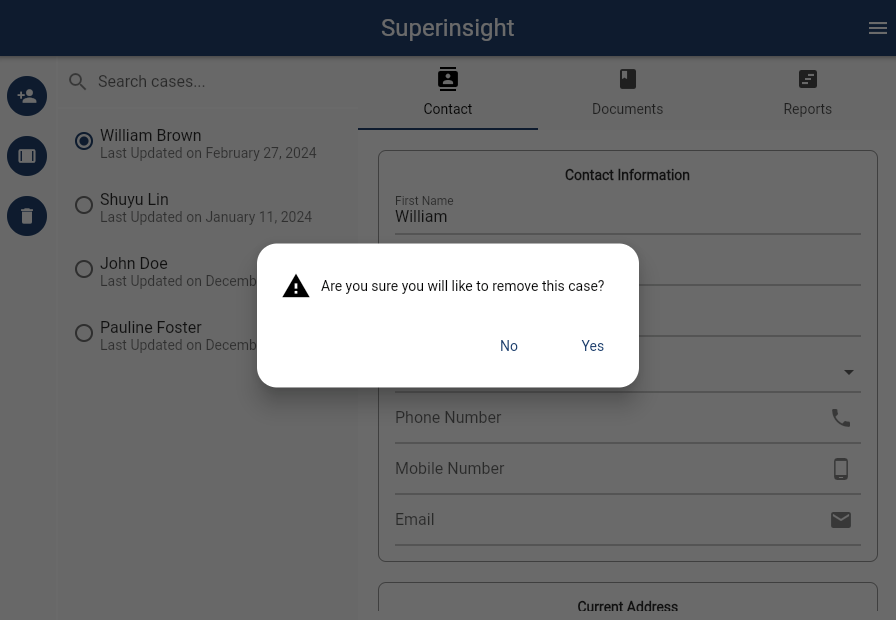
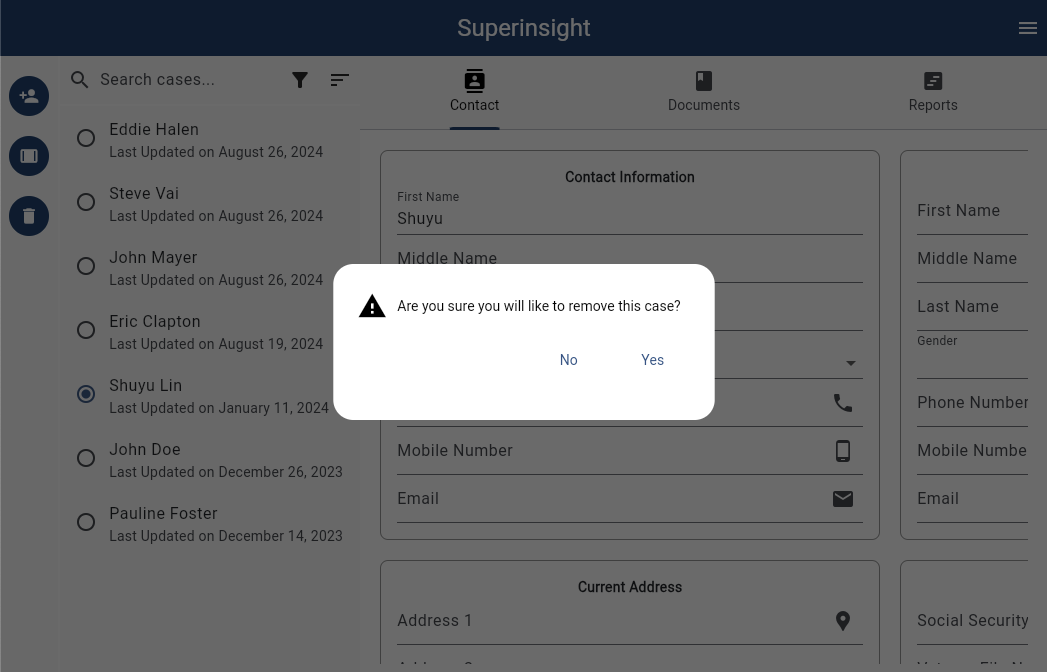
august new features update

diff --git a/docs/guide/search.md b/docs/guide/search.md
@@ -6,7 +6,7 @@ Superinsight offers a powerful search feature for different demands. Let's dive 
 
 You can find the search bar at the top of the case contacts list. Type in the name of the contact you are looking for, and Superinsight will find him/her immediately.
 
-If you have cases shared by your co-worker, you can quickly find the contact with the filter as well.
+If you have cases shared by your co-worker, you can quickly find the contact with the filter as well. You can also sort cases by contact name or update date to let you find your cases more efficiently
 
 === "Search Cases"
     ![Search Cases](../assets/images/tutorial/search-cases.png)
@@ -14,11 +14,20 @@ If you have cases shared by your co-worker, you can quickly find the contact wit
 === "Filter Cases"
     ![Filter Cases](../assets/images/tutorial/filter-cases.png)
 
+=== "Sort Cases"
+    ![Sort Cases](../assets/images/tutorial/sort-cases.png)
+
 ## 2. Search Documents
 
 In the Documents tab, you can also find the search bar. Type in the terms you're searching for, and then Superinsight will locate all the relevant information from thousands of your documents in seconds. Even precisely tell you which page of the documents.
 
-![Search Documents](../assets/images/tutorial/search-docs.png)
+For now, your documents are sorted by update date. You can also sort them by file name, or label by clicking the column. If you need to find them descending, just click the column again.
+
+=== "Search Documents"
+    ![Search Documents](../assets/images/tutorial/search-docs.png)
+
+=== "Sort Documents"
+    ![Sort Documents](../assets/images/tutorial/sort-docs.png)
 
 ## 3. Search Reports
 

diff --git a/docs/guide/case-files.md b/docs/guide/case-files.md
@@ -41,7 +41,7 @@ Besides auto-labeling, you can also add or remove labels from the files by deman
     ![Create Labels](../assets/images/tutorial/add-labels.png)
 
 === "Filter by Labels"
-    Click on the filter icon and choose what labels you want to show.
+    Click on the filter icon and choose what labels you want to show. You can also use "Non-Labeled" to find all the non-labeled files.
     ![Filter Labels](../assets/images/tutorial/filter-labels.png)
 
 ## 3. Delete Files

diff --git a/docs/guide/case-report.md b/docs/guide/case-report.md
@@ -33,7 +33,7 @@ Select the report types that you want to build. Now we offer 4 types of report, 
     ![Mass Tort](../assets/images/tutorial/report-type-mt.png)
 
 === "Personal Injury"
-    Reveal various medical procedures and provides corresponding CPT codes.
+    Reveal various medical procedures and provides corresponding ICD codes.
     ![Personal Injury](../assets/images/tutorial/report-type-pi.png)
 
 
